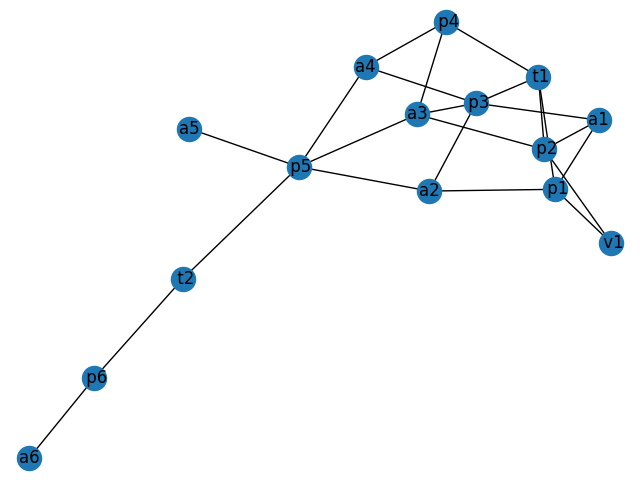
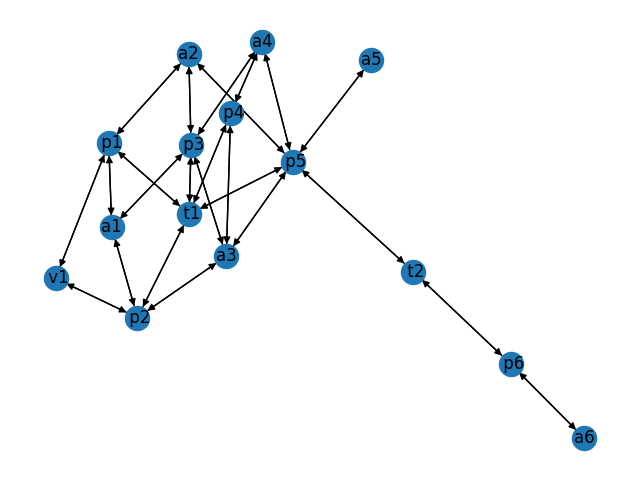
BSL Done

diff --git a/src/fastBCore.py b/src/fastBCore.py
@@ -43,23 +43,21 @@ def bsl(graph, query, metapath):
     S = set()
     x = set()
     x.add(query)
+    count = 1
     while len(x) > 0:
+        print("Metapath Iter: {}".format(count))
         for i in range(len(metapath) - 1):
             y = set()
-            print("x is: {}".format(x))
             for v in x:
-                print("V is: {}".format(v))
                 for u in graph.neighbors(v):
-                    print("U is {}".format(str(u)))
                     if (graph.nodes[v]['type'] == metapath[i]) and (graph.nodes[u]['type'] == metapath[i + 1]):
                         if graph[v][u]['label'] == -1:
                             y.add(str(u))
-                            print("ADDED Neighbour: U is {}".format(str(u)))
                             graph[v][u]['label'] = i
-            print("y is: {}".format(y))
             x = y
-        x.difference(S)
-        S.union(x)
+        count += 1
+        x = x.difference(S)
+        S = S.union(x)
 
     return S
 
@@ -72,4 +70,4 @@ if __name__ == '__main__':
         # initialize grap labels
         nx.set_edge_attributes(graph, values=-1, name='label')
         S = bsl(graph, query, metapath)
-        print("S is \n {}".format(S))
+        print("S is {}".format(S))

diff --git a/src/main.py b/src/main.py
@@ -73,7 +73,7 @@ def read_graph(path_in):
 
 
 def generate_graph(entries):
-    graph_gen = nx.Graph()
+    graph_gen = nx.DiGraph()
     for entry in entries:
         entry.print_entry()
         if (len(entry.author_list) > 0) and (entry.author_list[0] != ''):
@@ -84,6 +84,7 @@ def generate_graph(entries):
                 graph_gen.add_node(entry.title, type="title")
                 for author in entry.author_list:
                     graph_gen.add_edge(author, entry.title)
+                    graph_gen.add_edge(entry.title, author)
             if entry.venue:
                 graph_gen.add_node(entry.venue, type="venue")
                 # for author in entry.author_list:
@@ -91,9 +92,11 @@ def generate_graph(entries):
                 #        graph_gen.add_edge(author, entry.venue)
                 if entry.title:
                     graph_gen.add_edge(entry.title, entry.venue)
+                    graph_gen.add_edge(entry.venue, entry.title)
             if entry.year:
                 graph_gen.add_node(entry.year, type="year")
                 if entry.title:
+                    graph_gen.add_edge(entry.year, entry.title)
                     graph_gen.add_edge(entry.title, entry.year)
     return graph_gen
 
